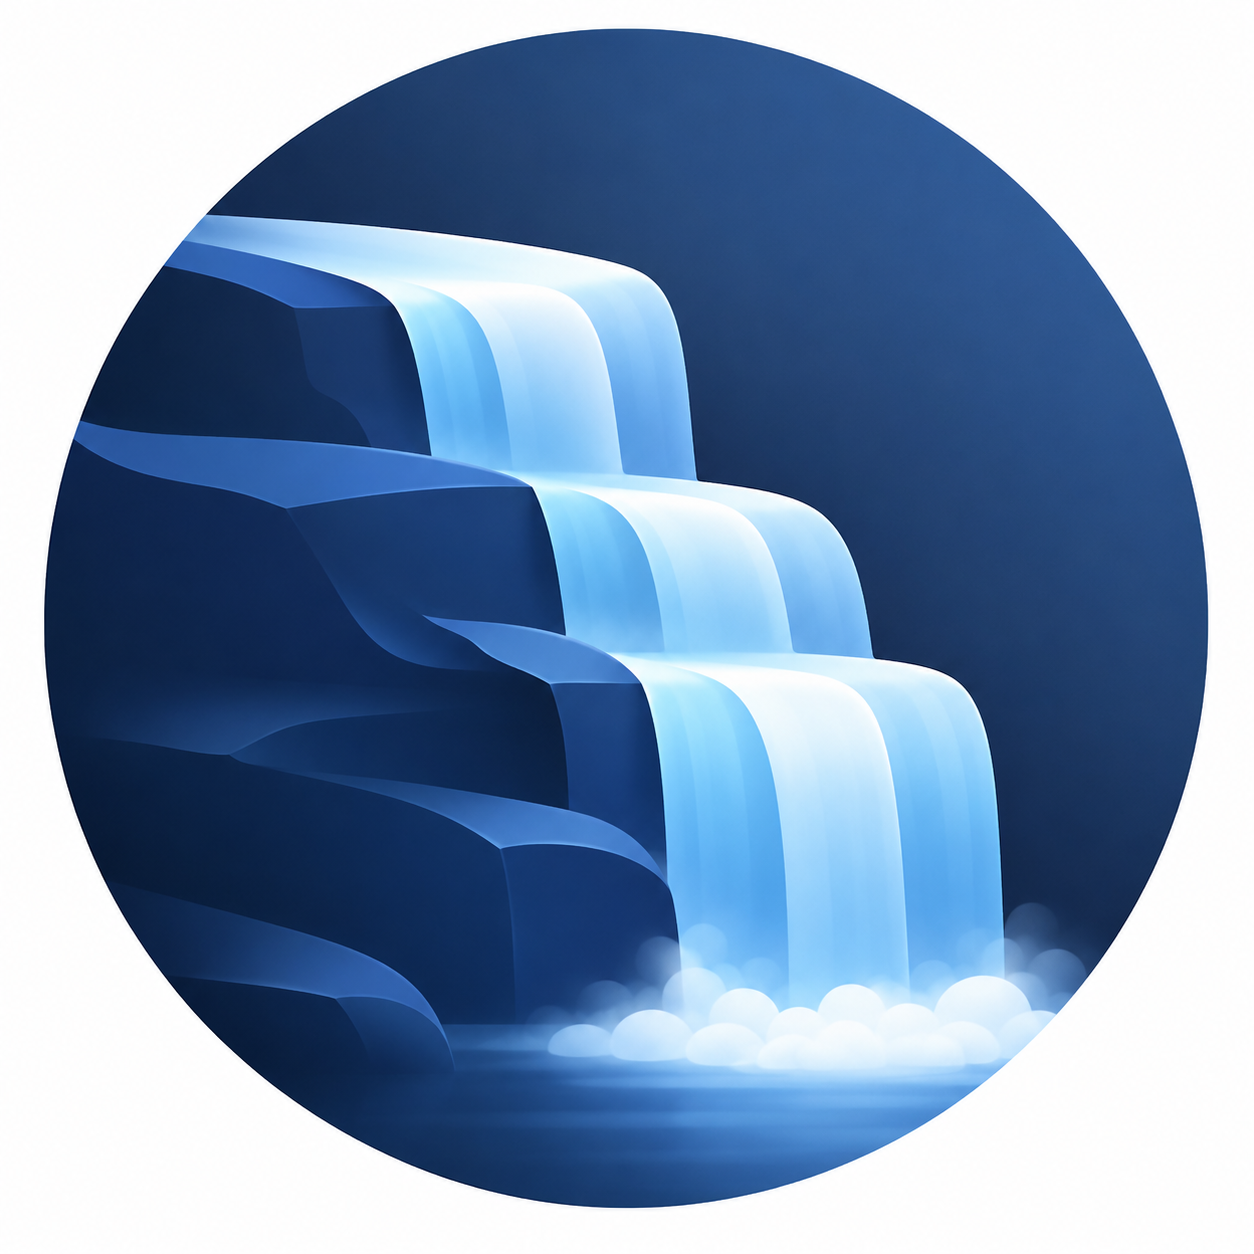
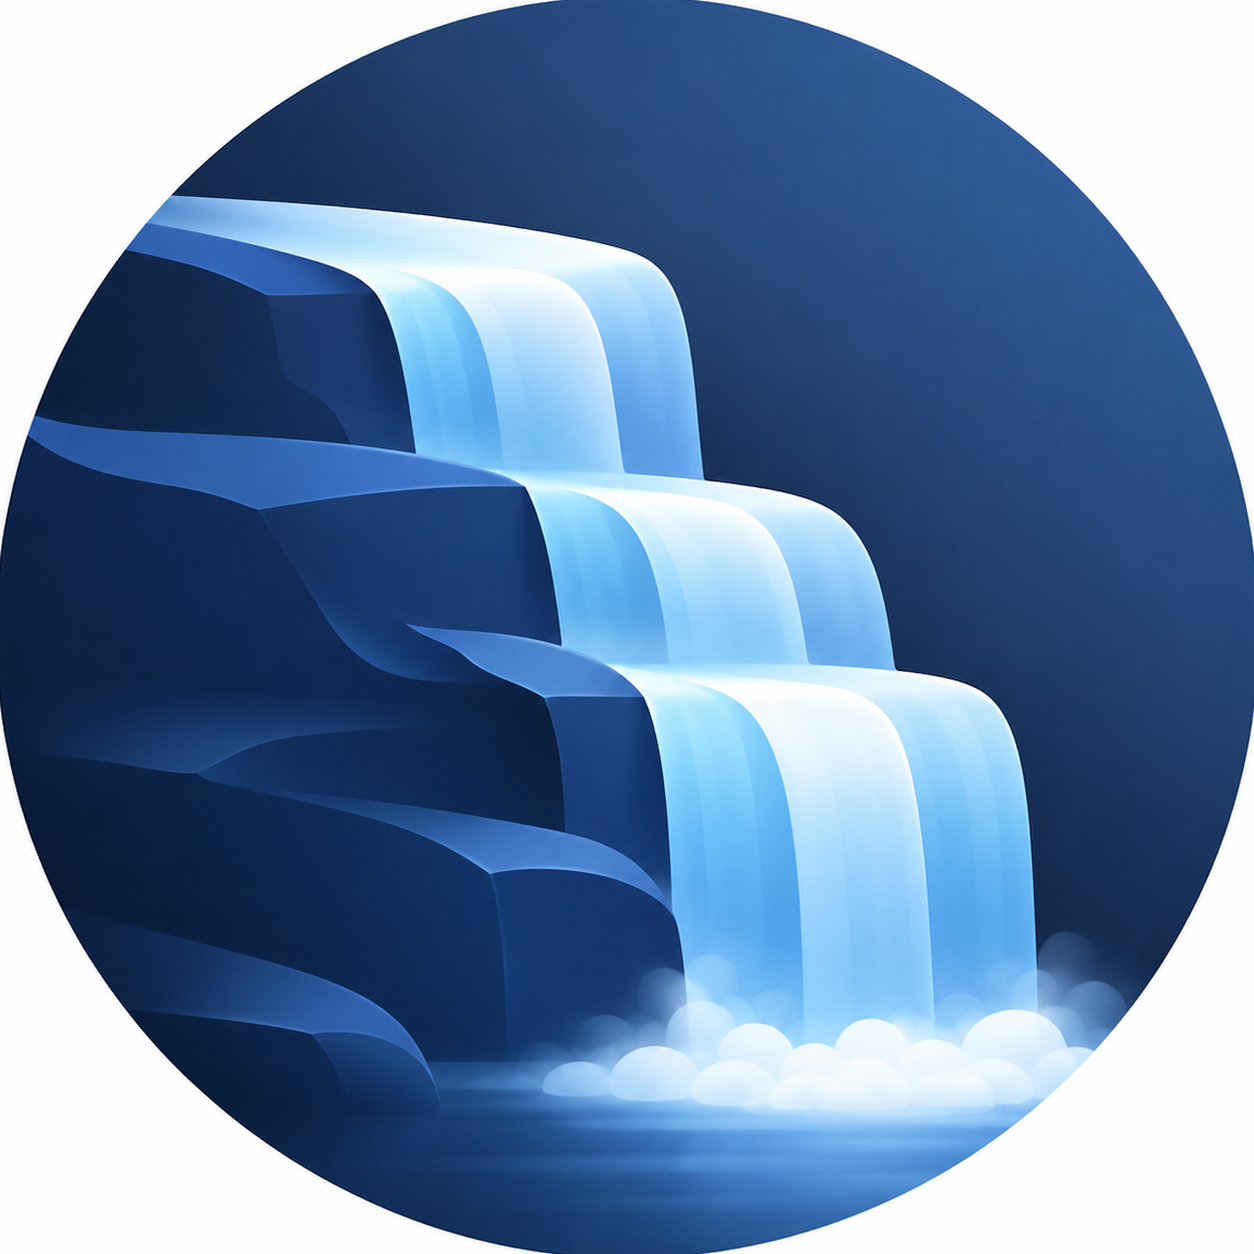
Crop channel profile pictures to full bleed for perfect circular fit

diff --git a/Engine/ShareEngine.swift b/Engine/ShareEngine.swift
@@ -818,7 +818,7 @@ enum ShareEngine {
     /// Runs at every launch after auth.
     static func healChannelPhotos(force: Bool = false) async {
         guard !underXCTest else { return }
-        let shouldForce = force || !UserDefaults.standard.bool(forKey: "xc_hasAppliedBrandedPNGPhotosV5")
+        let shouldForce = force || !UserDefaults.standard.bool(forKey: "xc_hasAppliedBrandedPNGPhotosV6")
         if let vault = try? await DatabaseManager.shared.firstVault() {
             let hasVaultPhoto = await TelegramClient.shared.hasChannelPhoto(chatId: vault.channelID)
             if shouldForce || !hasVaultPhoto {
@@ -852,7 +852,7 @@ enum ShareEngine {
                 await TelegramClient.shared.setChannelPhoto(chatId: state.channelID, pngNamed: "oc")
             }
         }
-        UserDefaults.standard.set(true, forKey: "xc_hasAppliedBrandedPNGPhotosV5")
+        UserDefaults.standard.set(true, forKey: "xc_hasAppliedBrandedPNGPhotosV6")
     }
 
     /// Idempotent launch heal: ensures every PRIVATE pool channel has the 24h

diff --git a/HANDOVER.md b/HANDOVER.md
@@ -1,6 +1,6 @@
 # Cascade — Session Handover
 
-> Written 2026-08-14, updated 2026-08-20 (morning): Official PNG Channel Profile Pictures Integration completed. Read this first in any new chat before touching the code. It captures the repo state, the uncommitted work in flight, how to build/run/test, known gotchas, and what is still pending.
+> Written 2026-08-14, updated 2026-08-20 (morning): Perfect Full-Bleed Cropping for Channel Profile Pictures completed. Read this first in any new chat before touching the code. It captures the repo state, the uncommitted work in flight, how to build/run/test, known gotchas, and what is still pending.
 
 ---
 
@@ -2494,6 +2494,12 @@ monotonicity, photos keyboard navigation unification — items 40–42 below).
     - **Launch branding heal**: Enhanced `ShareEngine.healChannelPhotos()` to upgrade legacy channels to the official PNG brand images.
     - Full test suite green: **TEST SUCCEEDED** (72: 64 unit + 4 UI + 4 launch, 0 failures).
       Commit: `a322711`.
+
+106. **Perfect full-bleed cropping for channel profile pictures (2026-08-20 — COMMITTED)**
+    (`Public/*.png`, `Resources/*.png`, `Engine/ShareEngine.swift`)
+    - **Cropped padding & white borders**: `cascade.png`, `oc.png`, and `pc.png` had circular artwork embedded within a padded white square canvas. Cropped all 3 assets tightly to their circular graphics and rescaled with high-quality Lanczos interpolation to $1254\times 1254$ full bleed (0.00% white boundary pixels).
+    - **Full-bleed fit in Telegram**: When Telegram applies its circular crop mask, the artwork now fills the entire circle with zero clipped crescents or white margins.
+    - Full test suite green: **TEST SUCCEEDED** (72: 64 unit + 4 UI + 4 launch, 0 failures).
 
 ## 5. Pending / next steps
 - **Zero-Knowledge Encryption Pipeline Complete (Phases 1–5)**:

diff --git a/JOURNAL.md b/JOURNAL.md
@@ -2,7 +2,21 @@
 
 >> Chronological log of the work on the Cascade macOS app. Companion to
 > HANDOVER.md (current state) and ROADMAP.md (deferred plans). Last entry:
-> 2026-08-20 (morning) — Official PNG channel profile pictures integration.
+> 2026-08-20 (morning) — Perfect full-bleed cropping for channel profile pictures.
+
+---
+
+## 2026-08-20 (morning) — Perfect full-bleed cropping for channel profile pictures
+
+Cropped `cascade.png`, `oc.png`, and `pc.png` so their circular artwork aligns edge-to-edge with full bleed, eliminating white borders/crescents when Telegram applies its circular crop mask.
+
+### Root cause & Solution
+- `cascade.png`, `oc.png`, and `pc.png` had circular badges centered on a square canvas with padding/white margins ($x \in [48, 1204], y \in [32, 1204]$), causing Telegram's circular crop to show uneven white borders.
+- Re-cropped and rendered all assets with subpixel Lanczos resampling to edge-to-edge $1254\times 1254$ full bleed (zero white boundary ring pixels).
+- Updated `healChannelPhotos` to force-reapply the fresh cropped avatars to live channels on launch.
+
+### Build / test
+- Build green (Debug). Full test suite **TEST SUCCEEDED** (72: 64 unit + 4 UI + 4 launch, 0 failures). Debug app relaunched.
 
 ---
 
